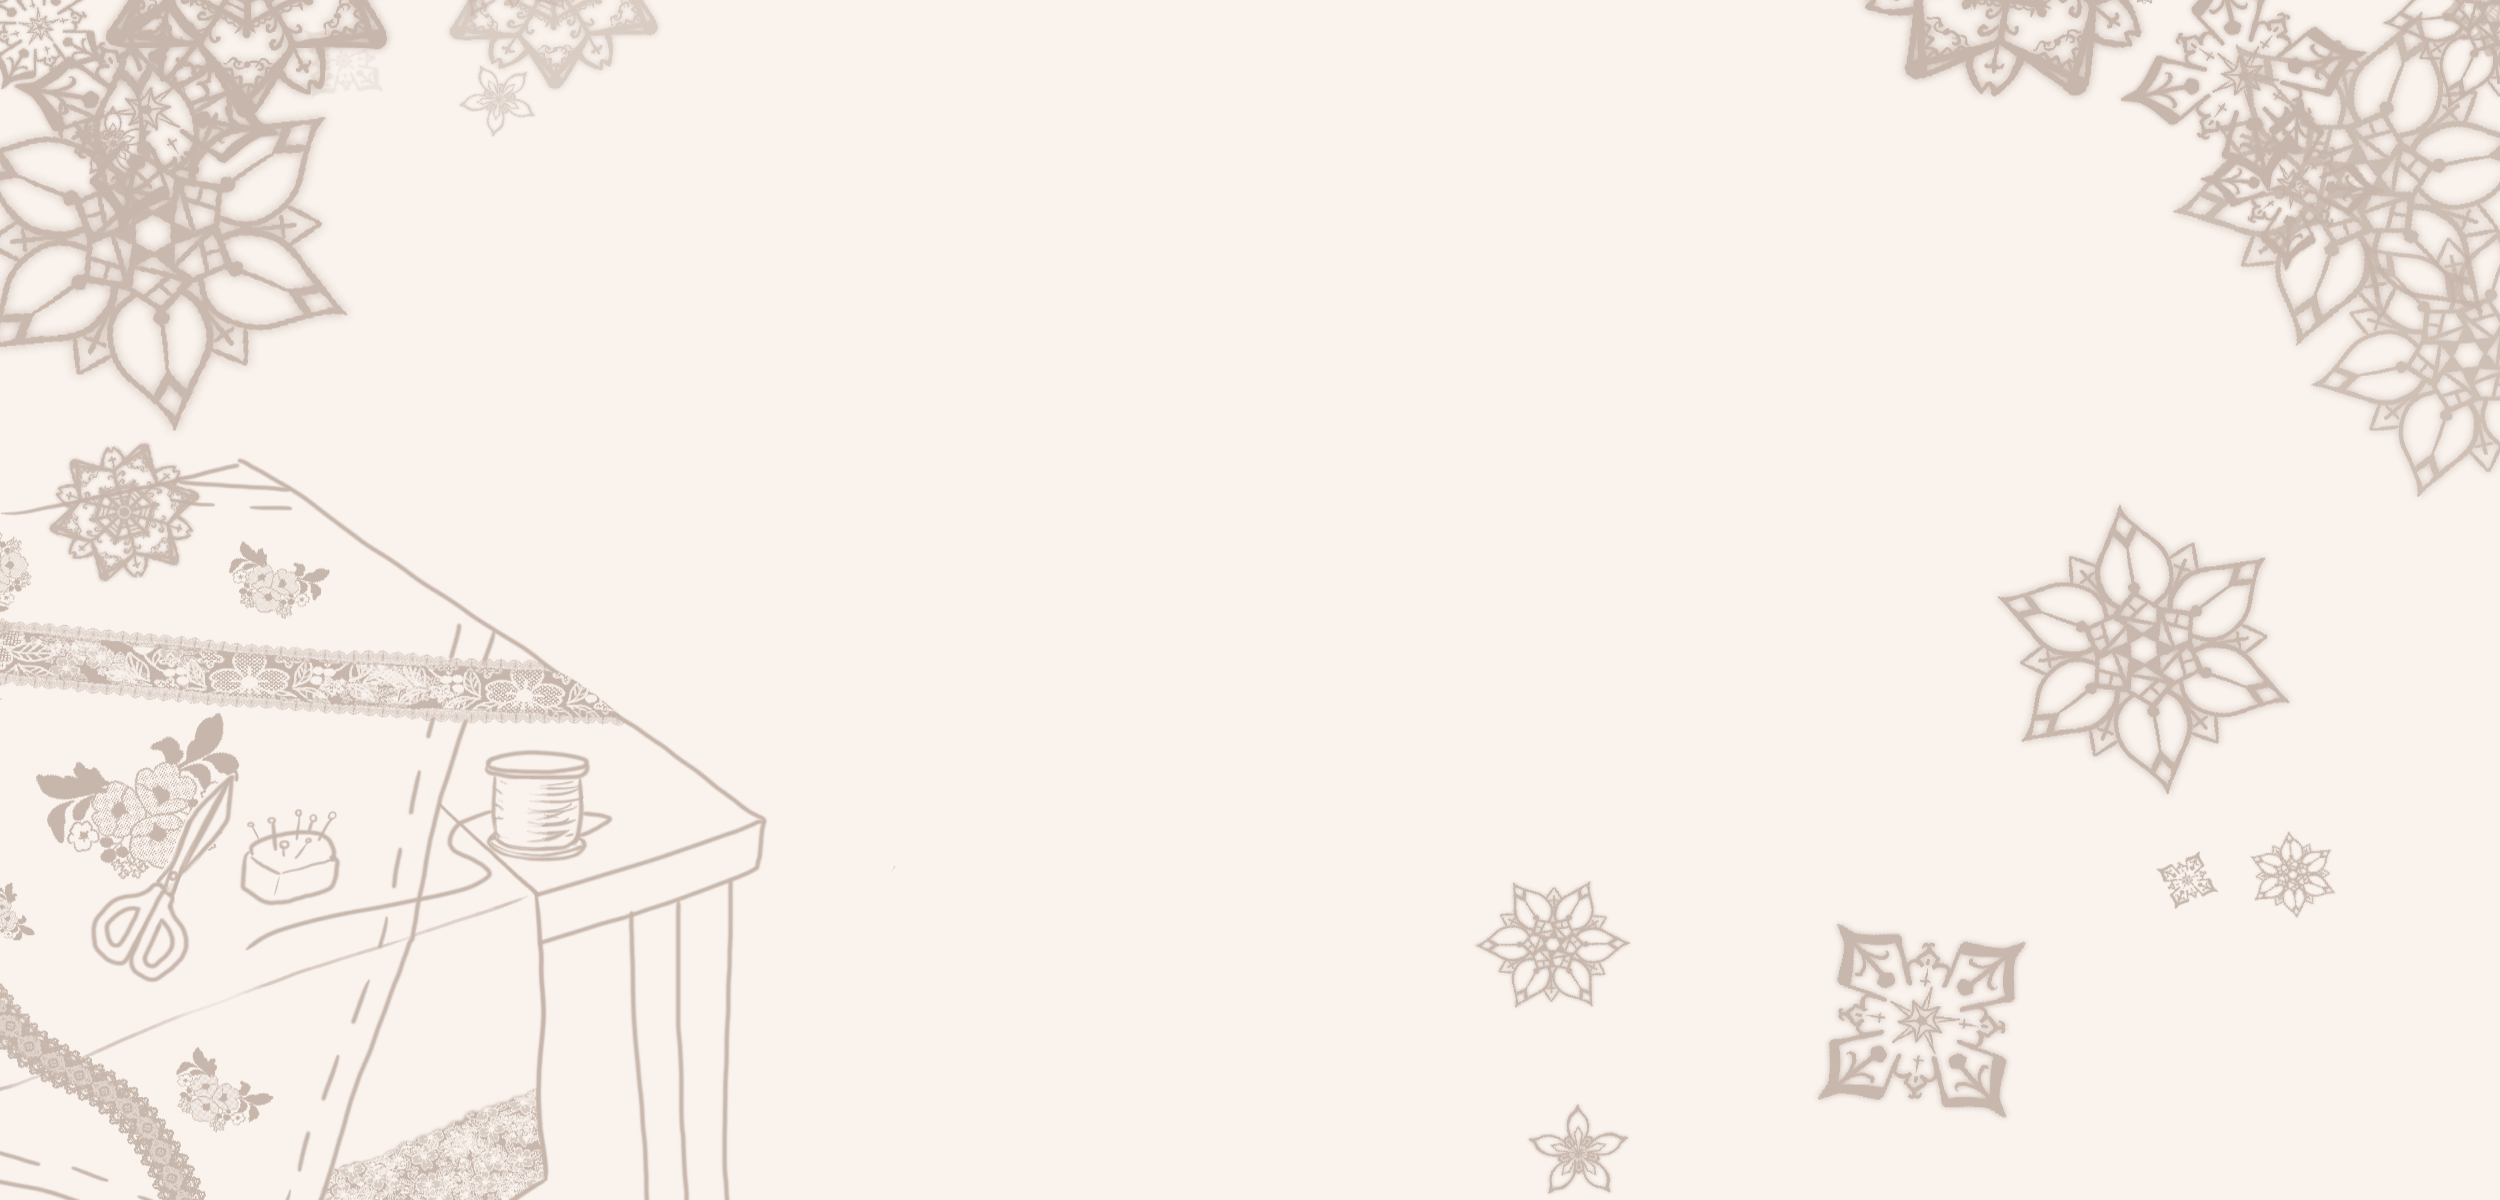
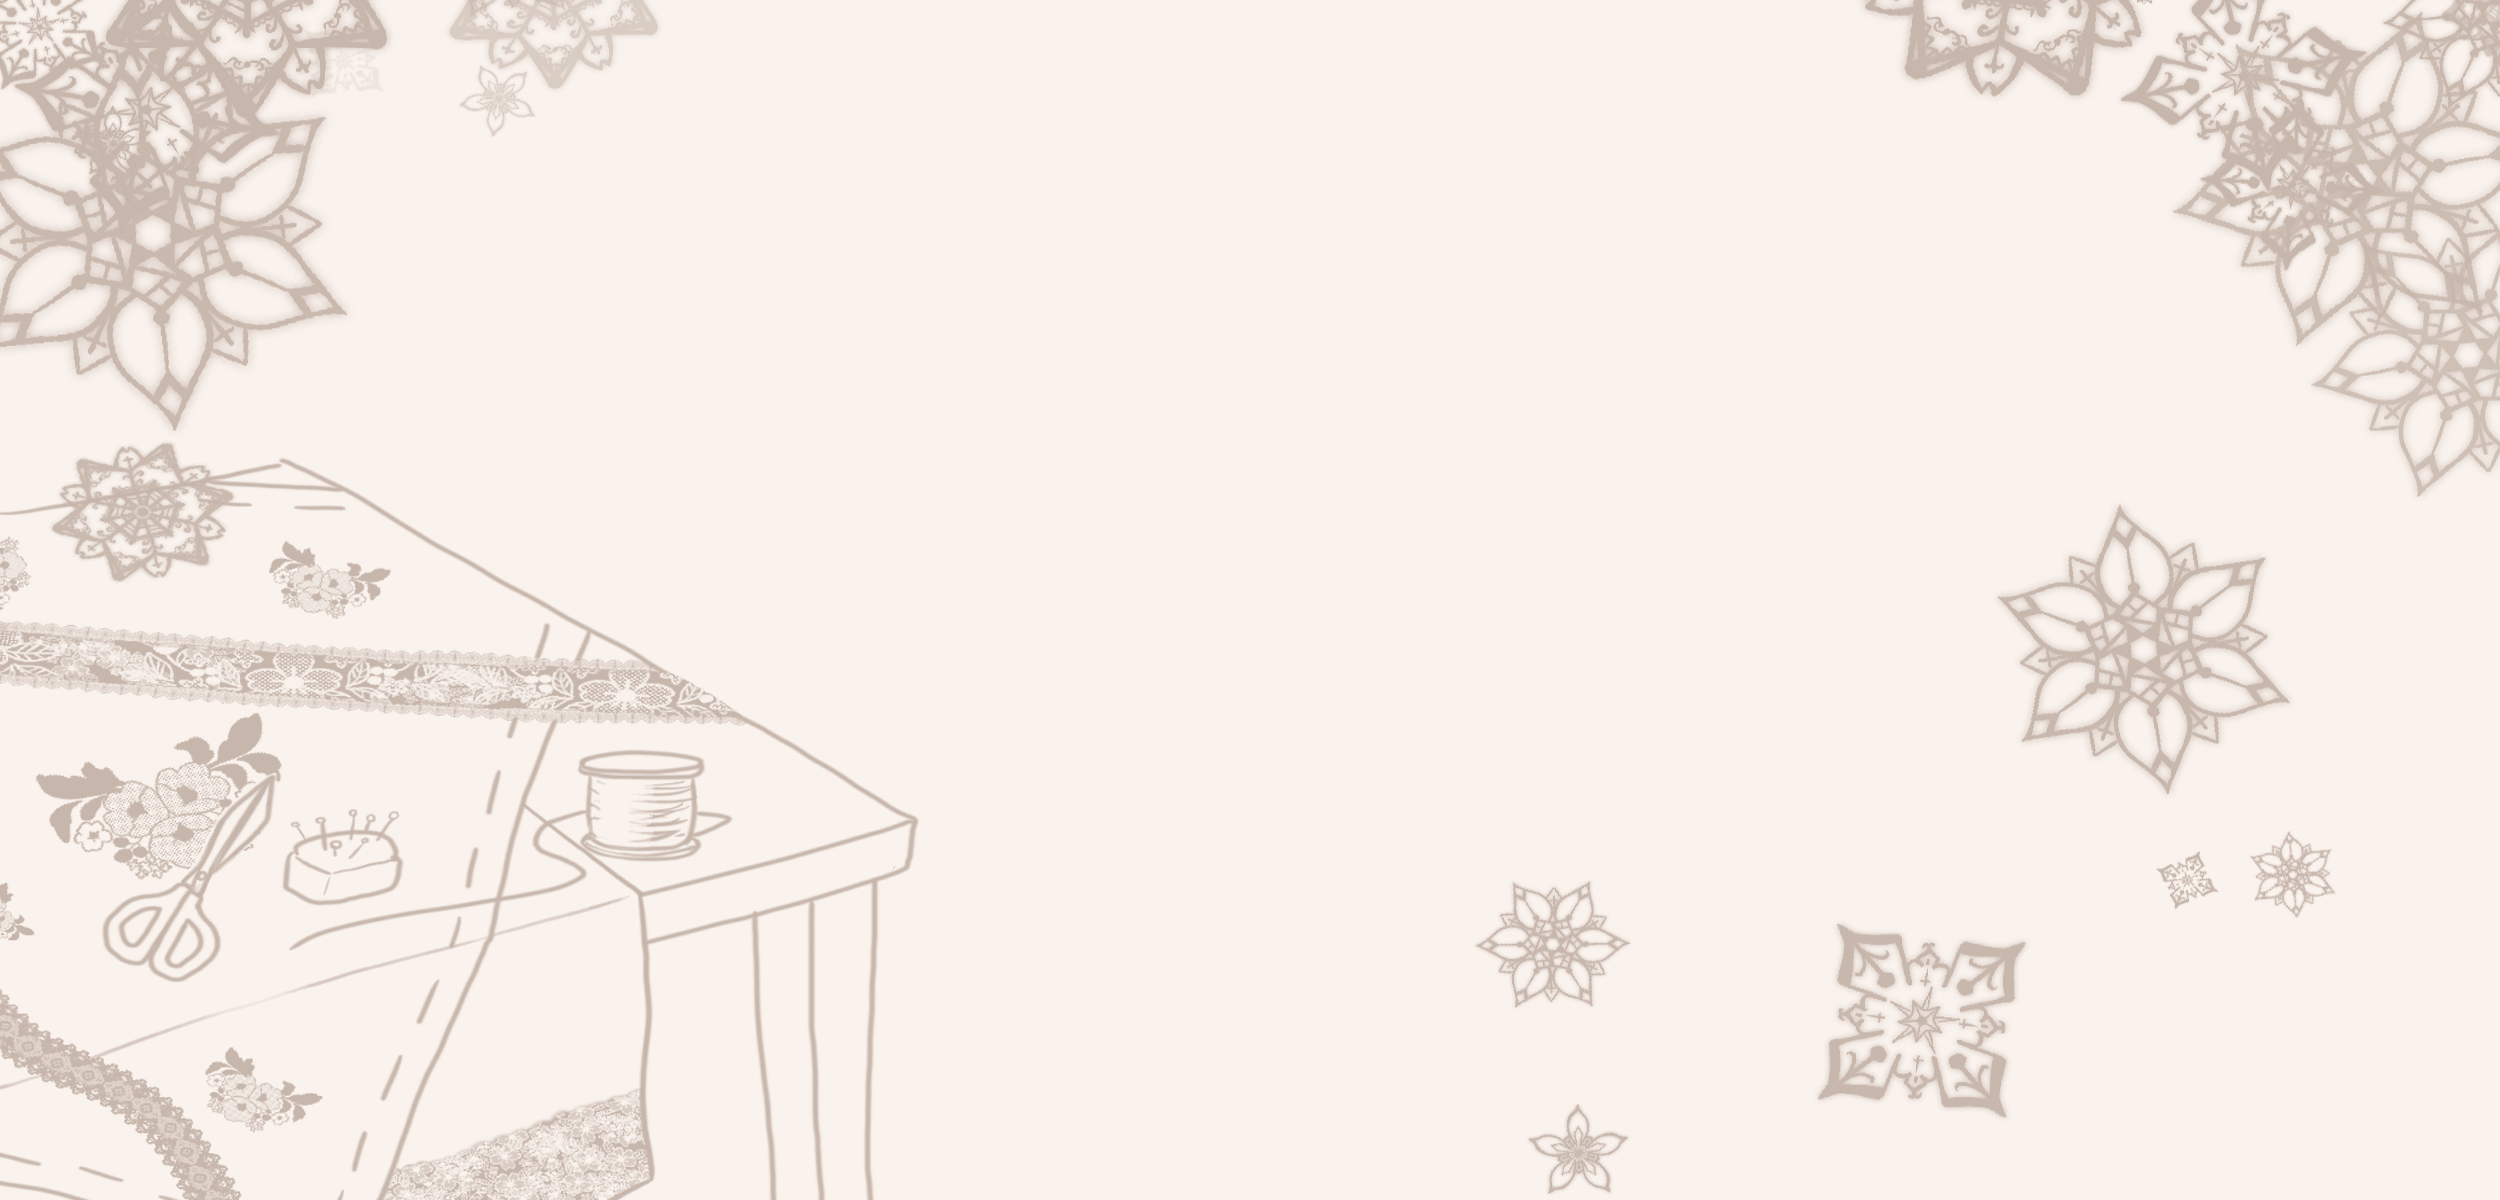
[Add]About画面レイアウト調整

Changed region(s): [[0.0, 0.37, 0.3432, 1.0], [0.3432, 0.6783, 0.3744, 0.74], [0.312, 0.6167, 0.3432, 0.6475]]

diff --git a/app/assets/stylesheets/homes.scss b/app/assets/stylesheets/homes.scss
@@ -71,7 +71,7 @@
 }
 .about_bottom2_content{
   top: 0;
-  right: 10%;
+  left: 45%;
 }
 
 // ----------------------
